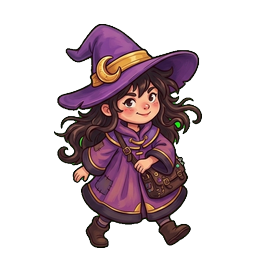
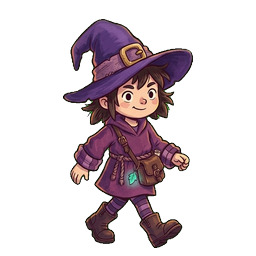
art: yeni sanat yonu ile yenilenen gorseller

Changed region(s): [[0.2188, 0.0625, 0.8125, 0.9688]]

diff --git a/sw.js b/sw.js
@@ -1,5 +1,5 @@
 // Çevrimdışı çalışma: kod ve sayfa önce ağdan (güncel sürüm), görseller önce önbellekten.
-const CACHE = 'hexling-v150';
+const CACHE = 'hexling-v151';
 const CORE = ['index.html', 'manifest.webmanifest', 'dist/main.js', 'dist/minis.js', 'dist/game.js', 'dist/data.js', 'dist/audio.js', 'dist/settings.js', 'dist/i18n.js', 'dist/scenery.js', 'dist/version.js', 'dist/billing.js', 'dist/ads.js', 'dist/fight.js', 'dist/hof.js', 'dist/house.js', 'dist/meta.js', 'dist/quests.js', 'dist/story.js', 'dist/tiger.js', 'dist/notify.js', 'dist/mine.js', 'dist/mine3d.js', 'vendor/three.min.js', 'assets/manifest.json', 'assets/title_bg.jpg', 'assets/arena_bg.jpg', 'icons/icon-192.png'];
 
 self.addEventListener('install', (e) => {
